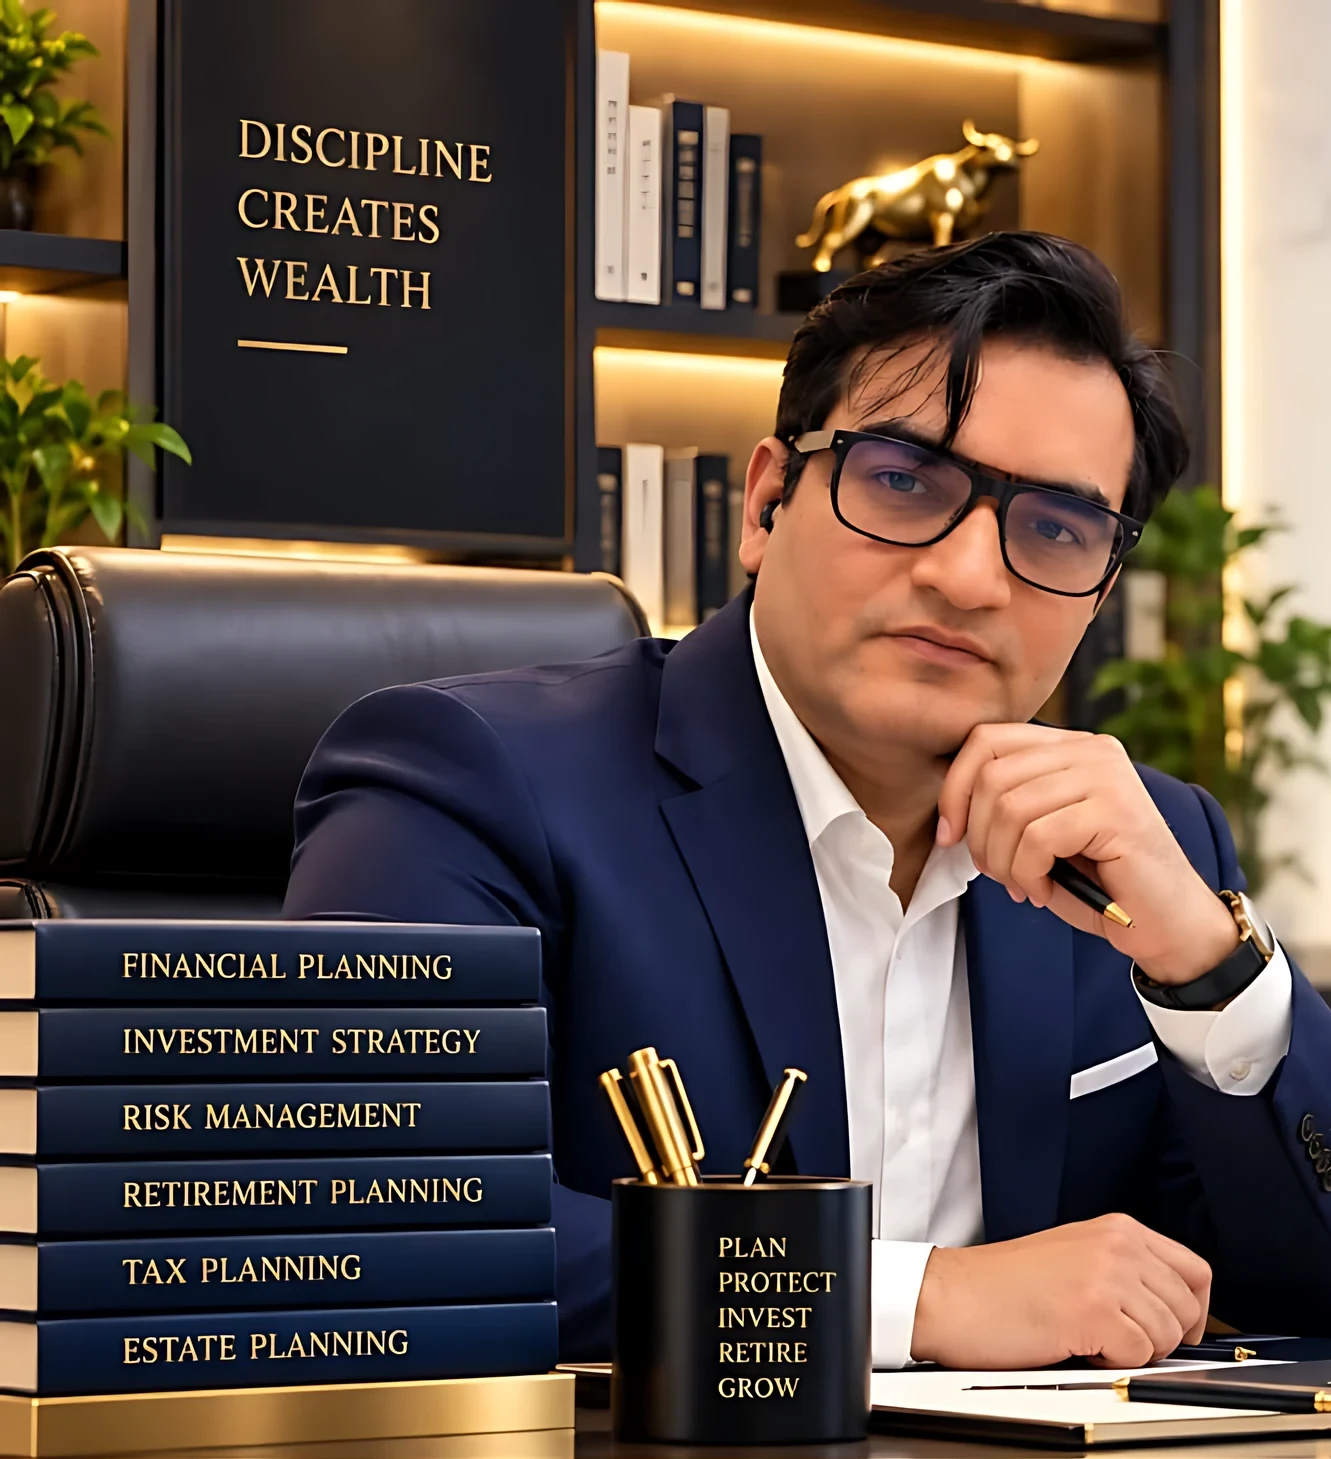
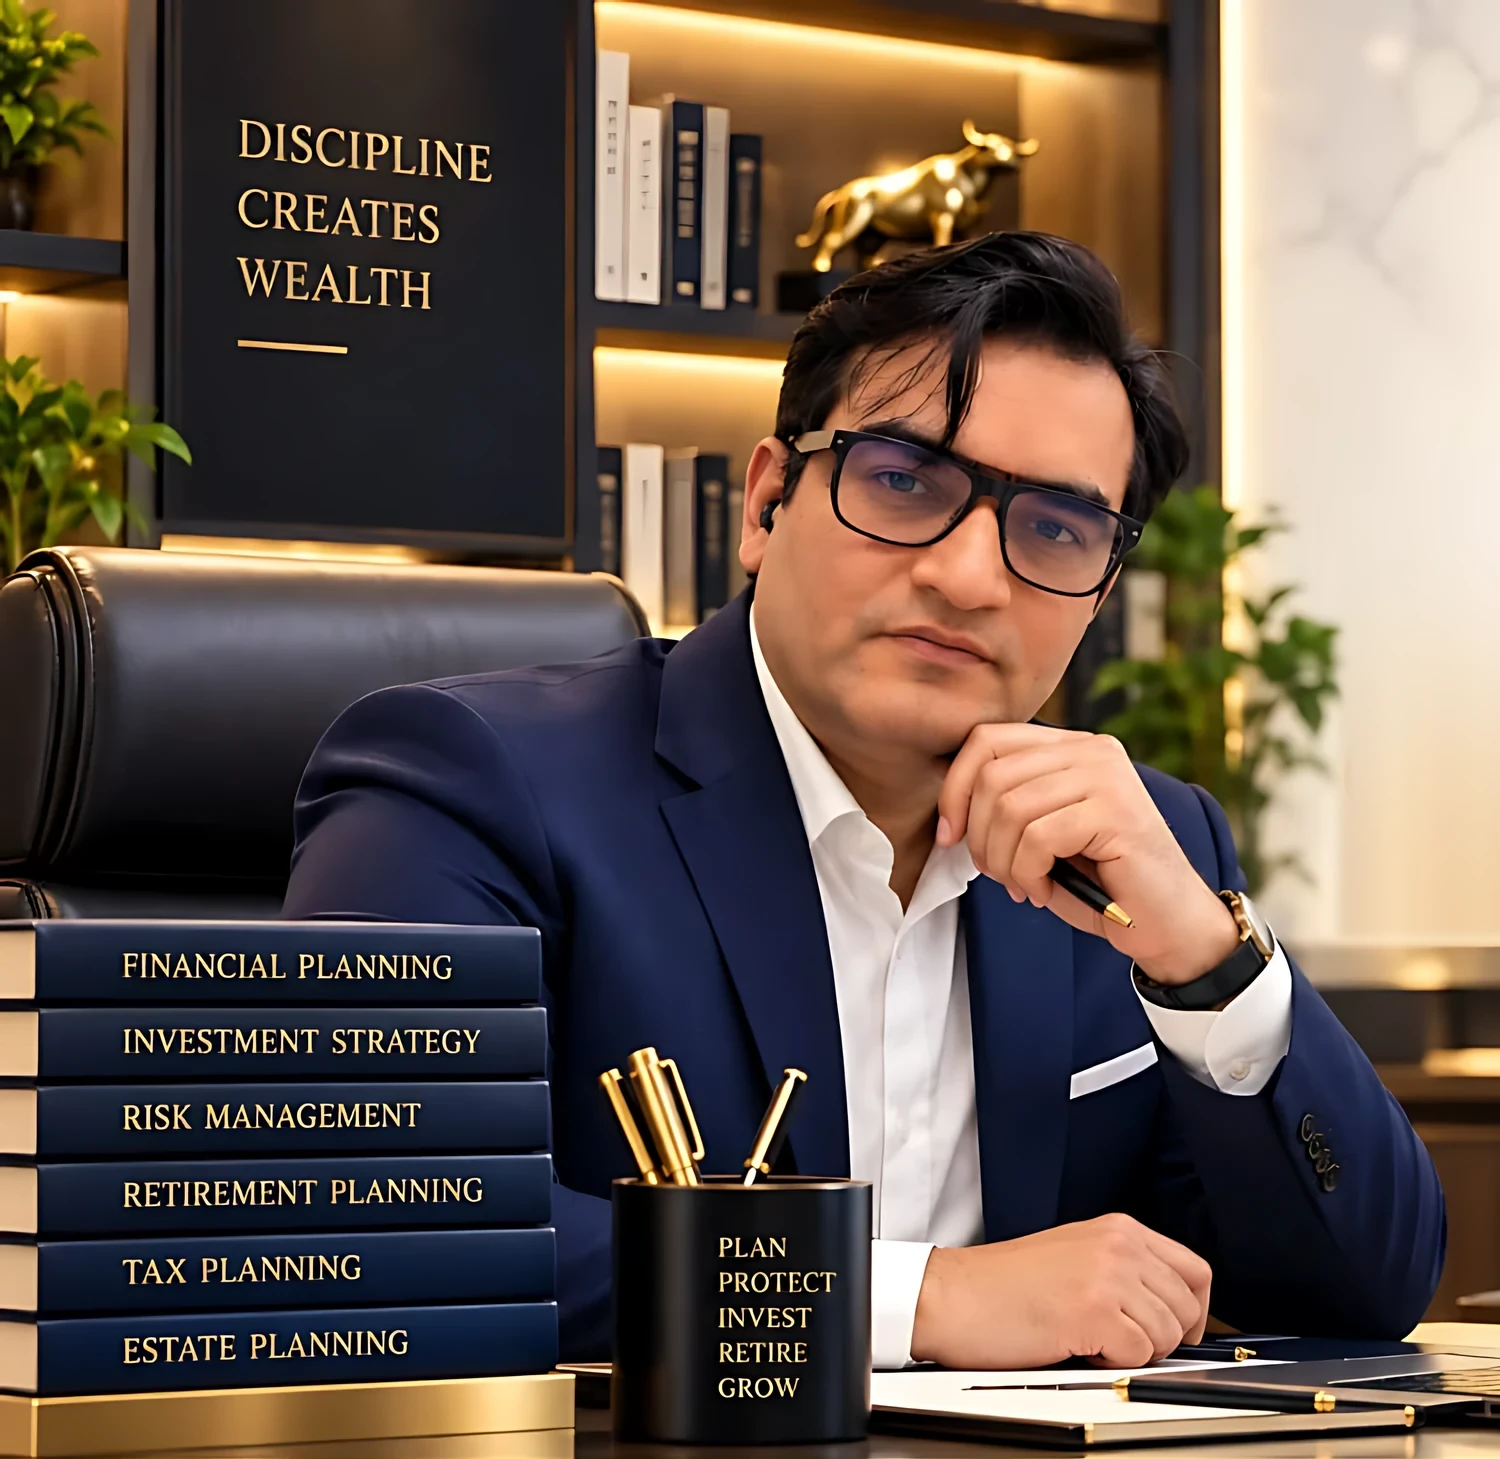
About hero: widen photo so the arm is not cut off

diff --git a/src/components/about/AboutHero.jsx b/src/components/about/AboutHero.jsx
@@ -36,12 +36,12 @@ export default function AboutHero() {
           initial={{ opacity: 0 }}
           animate={{ opacity: 1 }}
           transition={{ duration: 0.7 }}
-          className="relative h-[300px] overflow-hidden sm:h-[380px] lg:row-span-1 lg:h-full lg:aspect-[1331/1459]"
+          className="relative h-[300px] overflow-hidden sm:h-[380px] lg:row-span-1 lg:h-full lg:aspect-[1500/1459]"
         >
           <img
             src={aboutPhoto}
             alt="Amit R. Pandey, Chartered Wealth Manager (CWM), at his desk"
-            width="1331"
+            width="1500"
             height="1459"
             className="h-full w-full object-cover object-[60%_20%]"
             draggable="false"
